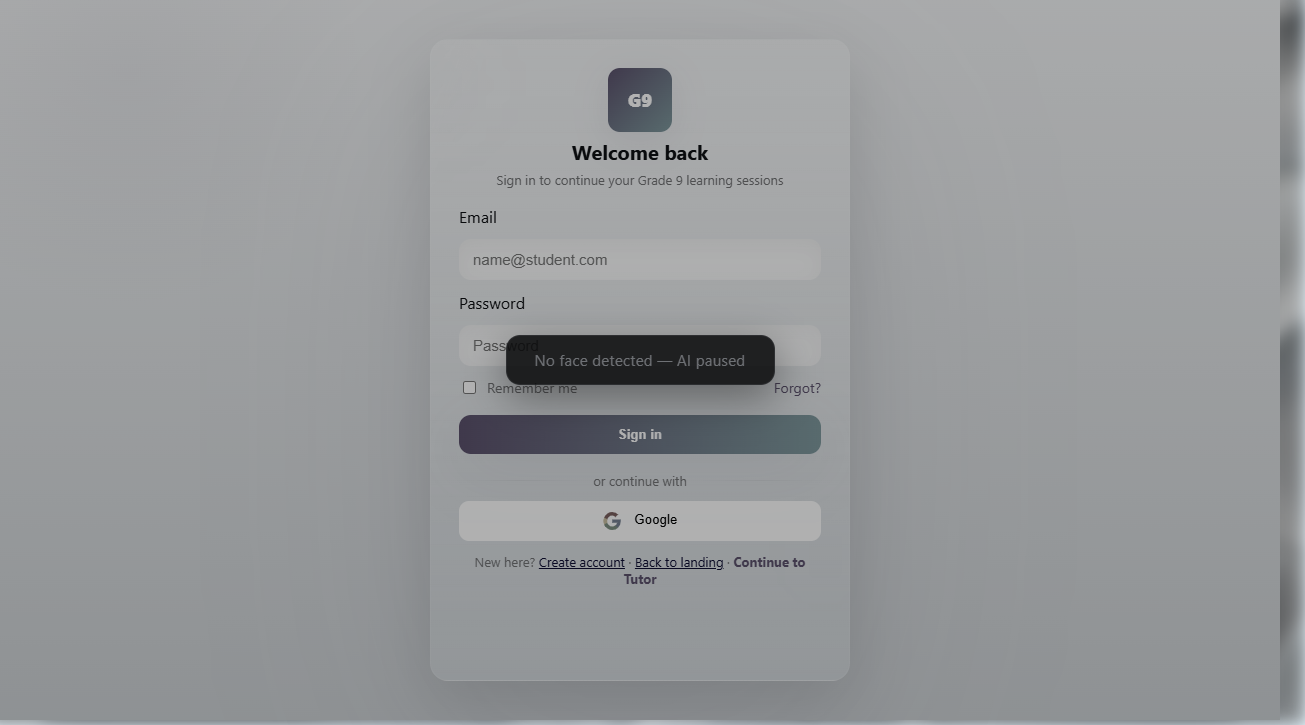
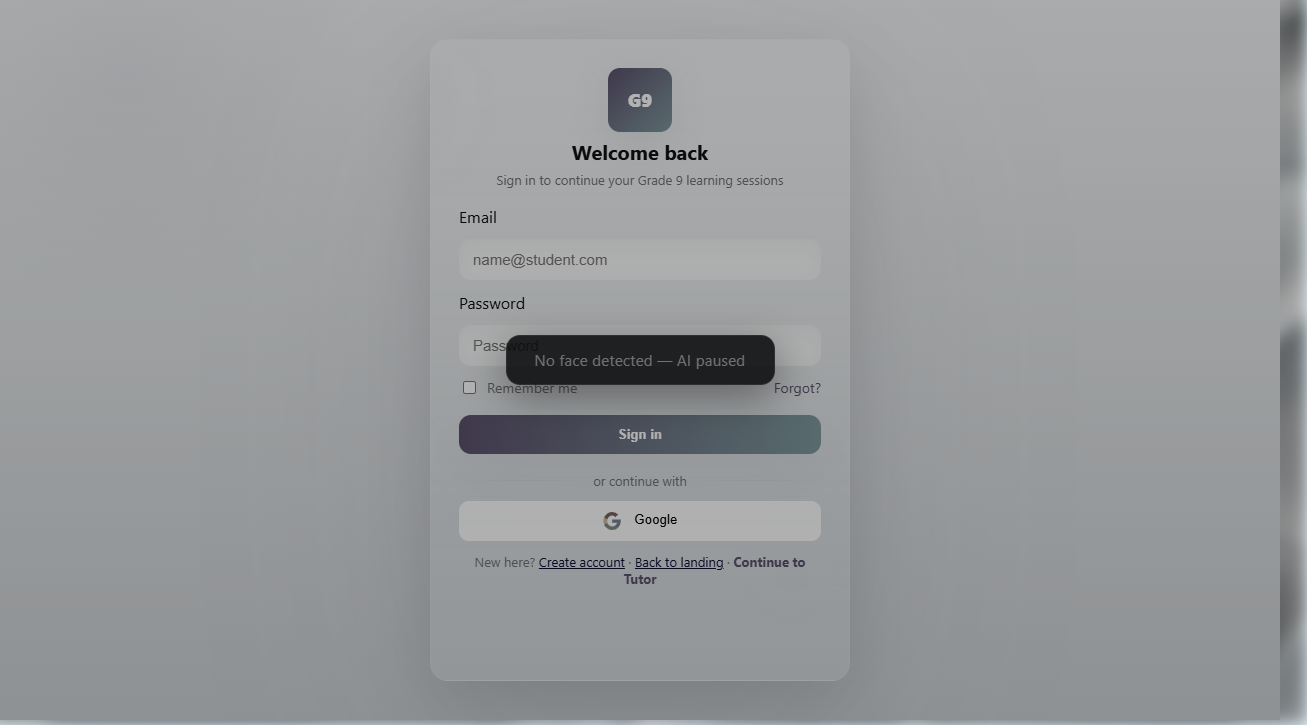
Fix: Revert destructive manual tf backend removals to restore native WebGL operations

diff --git a/public/vis/human_engine.js b/public/vis/human_engine.js
@@ -36,15 +36,6 @@ function markHumanFailure(err) {
 async function loadHuman(humanConfig) {
   const human = new window.Human.Human(humanConfig);
   if (human.load) await human.load();
-  // Force CPU backend and disable GPU backends if not in test mode
-  if (human.tf) {
-    try { if (human.tf.removeBackend) human.tf.removeBackend('webgl'); } catch (_) {}
-    try { if (human.tf.removeBackend) human.tf.removeBackend('webgpu'); } catch (_) {}
-    try { if (human.tf.removeBackend) human.tf.removeBackend('wasm'); } catch (_) {}
-    try { await human.tf.setBackend('cpu'); } catch (_) {}
-    try { await human.tf.ready(); } catch (_) {}
-  }
-  if (!isTestMode() && !human.tf) throw new Error('Human.js TF backend missing');
   return human;
 }
 
@@ -53,9 +44,8 @@ export async function initHuman() {
   if (window.__visHumanInitFailed) return null;
   if (!window.Human || !window.Human.Human) throw new Error('Human.js not loaded');
 
-  // Force CPU backend to avoid WebGL/WebGPU crashes
+  // Let Human.js use its default WebGL backend natively now that video streams are synced
   const humanConfig = {
-    backend: 'cpu',
     modelBasePath: 'https://cdn.jsdelivr.net/npm/@vladmandic/human/models/',
     cacheModels: true,
     face: {
@@ -73,14 +63,8 @@ export async function initHuman() {
   try {
     human = await loadHuman(humanConfig);
   } catch (err) {
-    try {
-      console.warn('[VIS] Initial load failed, retrying with fallback CPU config...');
-      const fallbackConfig = Object.assign({}, humanConfig, { backend: 'cpu' });
-      human = await loadHuman(fallbackConfig);
-    } catch (fallbackErr) {
-      markHumanFailure(fallbackErr || err);
-      return null;
-    }
+    markHumanFailure(err);
+    return null;
   }
   window.__visHuman = human;
   return human;

diff --git a/vis/human_engine.js b/vis/human_engine.js
@@ -36,15 +36,6 @@ function markHumanFailure(err) {
 async function loadHuman(humanConfig) {
   const human = new window.Human.Human(humanConfig);
   if (human.load) await human.load();
-  // Force CPU backend and disable GPU backends if not in test mode
-  if (human.tf) {
-    try { if (human.tf.removeBackend) human.tf.removeBackend('webgl'); } catch (_) {}
-    try { if (human.tf.removeBackend) human.tf.removeBackend('webgpu'); } catch (_) {}
-    try { if (human.tf.removeBackend) human.tf.removeBackend('wasm'); } catch (_) {}
-    try { await human.tf.setBackend('cpu'); } catch (_) {}
-    try { await human.tf.ready(); } catch (_) {}
-  }
-  if (!isTestMode() && !human.tf) throw new Error('Human.js TF backend missing');
   return human;
 }
 
@@ -53,9 +44,8 @@ export async function initHuman() {
   if (window.__visHumanInitFailed) return null;
   if (!window.Human || !window.Human.Human) throw new Error('Human.js not loaded');
 
-  // Force CPU backend to avoid WebGL/WebGPU crashes
+  // Let Human.js use its default WebGL backend natively now that video streams are synced
   const humanConfig = {
-    backend: 'cpu',
     modelBasePath: 'https://cdn.jsdelivr.net/npm/@vladmandic/human/models/',
     cacheModels: true,
     face: {
@@ -73,14 +63,8 @@ export async function initHuman() {
   try {
     human = await loadHuman(humanConfig);
   } catch (err) {
-    try {
-      console.warn('[VIS] Initial load failed, retrying with fallback CPU config...');
-      const fallbackConfig = Object.assign({}, humanConfig, { backend: 'cpu' });
-      human = await loadHuman(fallbackConfig);
-    } catch (fallbackErr) {
-      markHumanFailure(fallbackErr || err);
-      return null;
-    }
+    markHumanFailure(err);
+    return null;
   }
   window.__visHuman = human;
   return human;